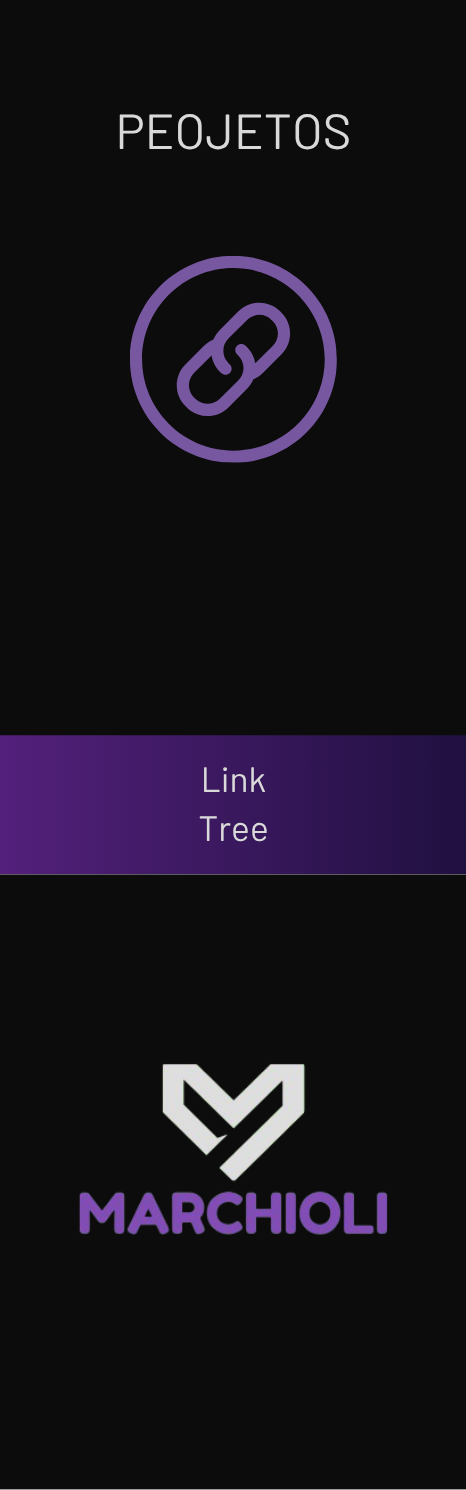
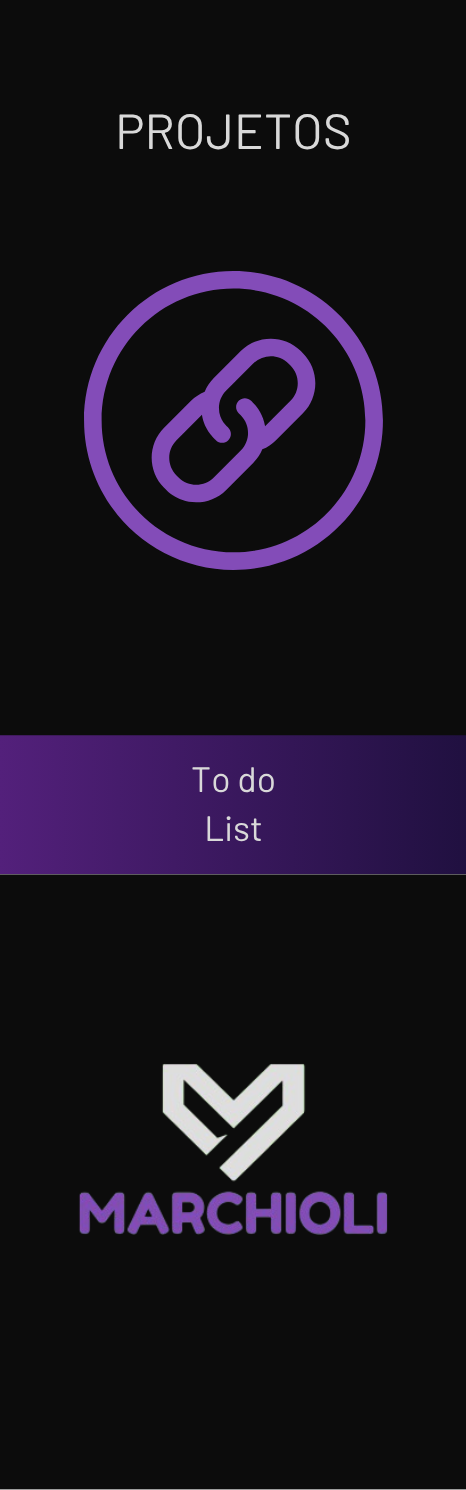
Finalização da pagina contato

Changed region(s): [[0.1803, 0.1544, 0.8412, 0.4013], [0.4206, 0.494, 0.5708, 0.5866], [0.3305, 0.0617, 0.3906, 0.1235]]

diff --git a/estilos/style.css b/estilos/style.css
@@ -305,12 +305,92 @@ section#projetos aside {
     width: 360px;
     background-color: #6b3d91;
     border-radius: 25px;
+    position: relative;
 
     background-size: cover;
     background-position: 100% 0%;
+    overflow: hidden;
+    margin-top: 60px;
 }
 
 section#projetos aside:hover {
     background-position: 100% 100%;
-    transition: 8s;
+    transition: 6s;
+}
+
+.overlay {
+    display: flex;
+    align-items: center;
+    justify-content: center;
+    background-color: rgba(0, 0, 0, 0.534);
+    color: rgb(204, 203, 203);
+
+    position: absolute;
+    top: 0;
+    left: 0;
+    width: 100%;
+    height: 100%;
+    font-size: 1.5rem;
+    font-weight: bolder;
+    opacity: 0;
+}
+
+.overlay:hover {
+    opacity: 1;
+    transition: all 1s;
+    cursor: pointer;
+}
+
+
+/* Contato page */
+section#formulario {
+    margin: auto;
+    padding: 80px 4%;
+    padding-top: 100px;
+    width: 90%;
+    color: white;
+} 
+
+form {
+    padding: 10px;
+    padding-right: 50px;
+    max-width: 500px;
+    margin: 0 auto;
+    display: flex;
+    justify-content: center;
+    flex-flow: column nowrap;
+    gap: 10px;
+}
+
+form input, form textarea {
+    width: 100%;
+    background-color: #242424;
+    color: white;
+    font-size: 0.9em;
+    border: 0;
+    border-radius: 10px;
+    outline: 0;
+    padding: 20px 15px;
+}
+
+form textarea {
+    height: 140px;
+}
+
+form textarea::placeholder {
+    font-size: 0.9em;
+    font-family: Arial, Helvetica, sans-serif;
+}
+
+#botaoEnviar {
+    width: 120px;
+    margin: auto;
+    background-color: #6b3d91;
+}
+
+#botaoEnviar:hover {
+    background-color: #3c1e55;
+    cursor: pointer;
+    box-shadow: 0px 0px 12px #3c1e55;
+    transition: all 1s;
 }

diff --git a/index.html b/index.html
@@ -129,10 +129,23 @@
           <section id="projetos">
             <h1>MEUS <span>PROJETOS</span></h1>
             <article>
-                <aside style="background-image: url(assets/imgs/Projeto-1.png);"></aside>
-                <aside style="background-image: url(assets/imgs/Projeto-2.png);"></aside>
-                <aside style="background-image: url(assets/imgs/Projeto-3.png);"></aside>
+                <aside style="background-image: url(assets/imgs/Projeto-1.png);"><div class="overlay">Projeto Link-Tree</div></aside>
+                <aside style="background-image: url(assets/imgs/Projeto-2.png);"><div class="overlay">Project Product-Cards</div></aside>
+                <aside style="background-image: url(assets/imgs/Projeto-3.png);"><div class="overlay">Projeto To do List</div></aside>
             </article>
+          </section>
+          <!-- Area de contato -->
+          <section id="contato">
+            <h1>FALE <span>COMIGO</span></h1>
+
+            <form action="">
+                <input type="text" name="" id="" placeholder="Seu nome completo:" required>
+                <input type="email" name="" id="" required placeholder="Seu e-mail:">
+                <input type="number" name="" id="" placeholder="Seu celular (opcional):" required>
+                <textarea name="" id="" required placeholder="Sua mensagem:" style="resize: none;"></textarea>
+                <input type="submit" value="ENVIAR" id="botaoEnviar">
+            </form>
+
           </section>
     </main>
 

diff --git a/estilos/media-querry.css b/estilos/media-querry.css
@@ -80,7 +80,7 @@
     }
 
     section#projetos aside {
-        margin-right: 0px;
+        margin-right: 15px;
     }
 
 }
